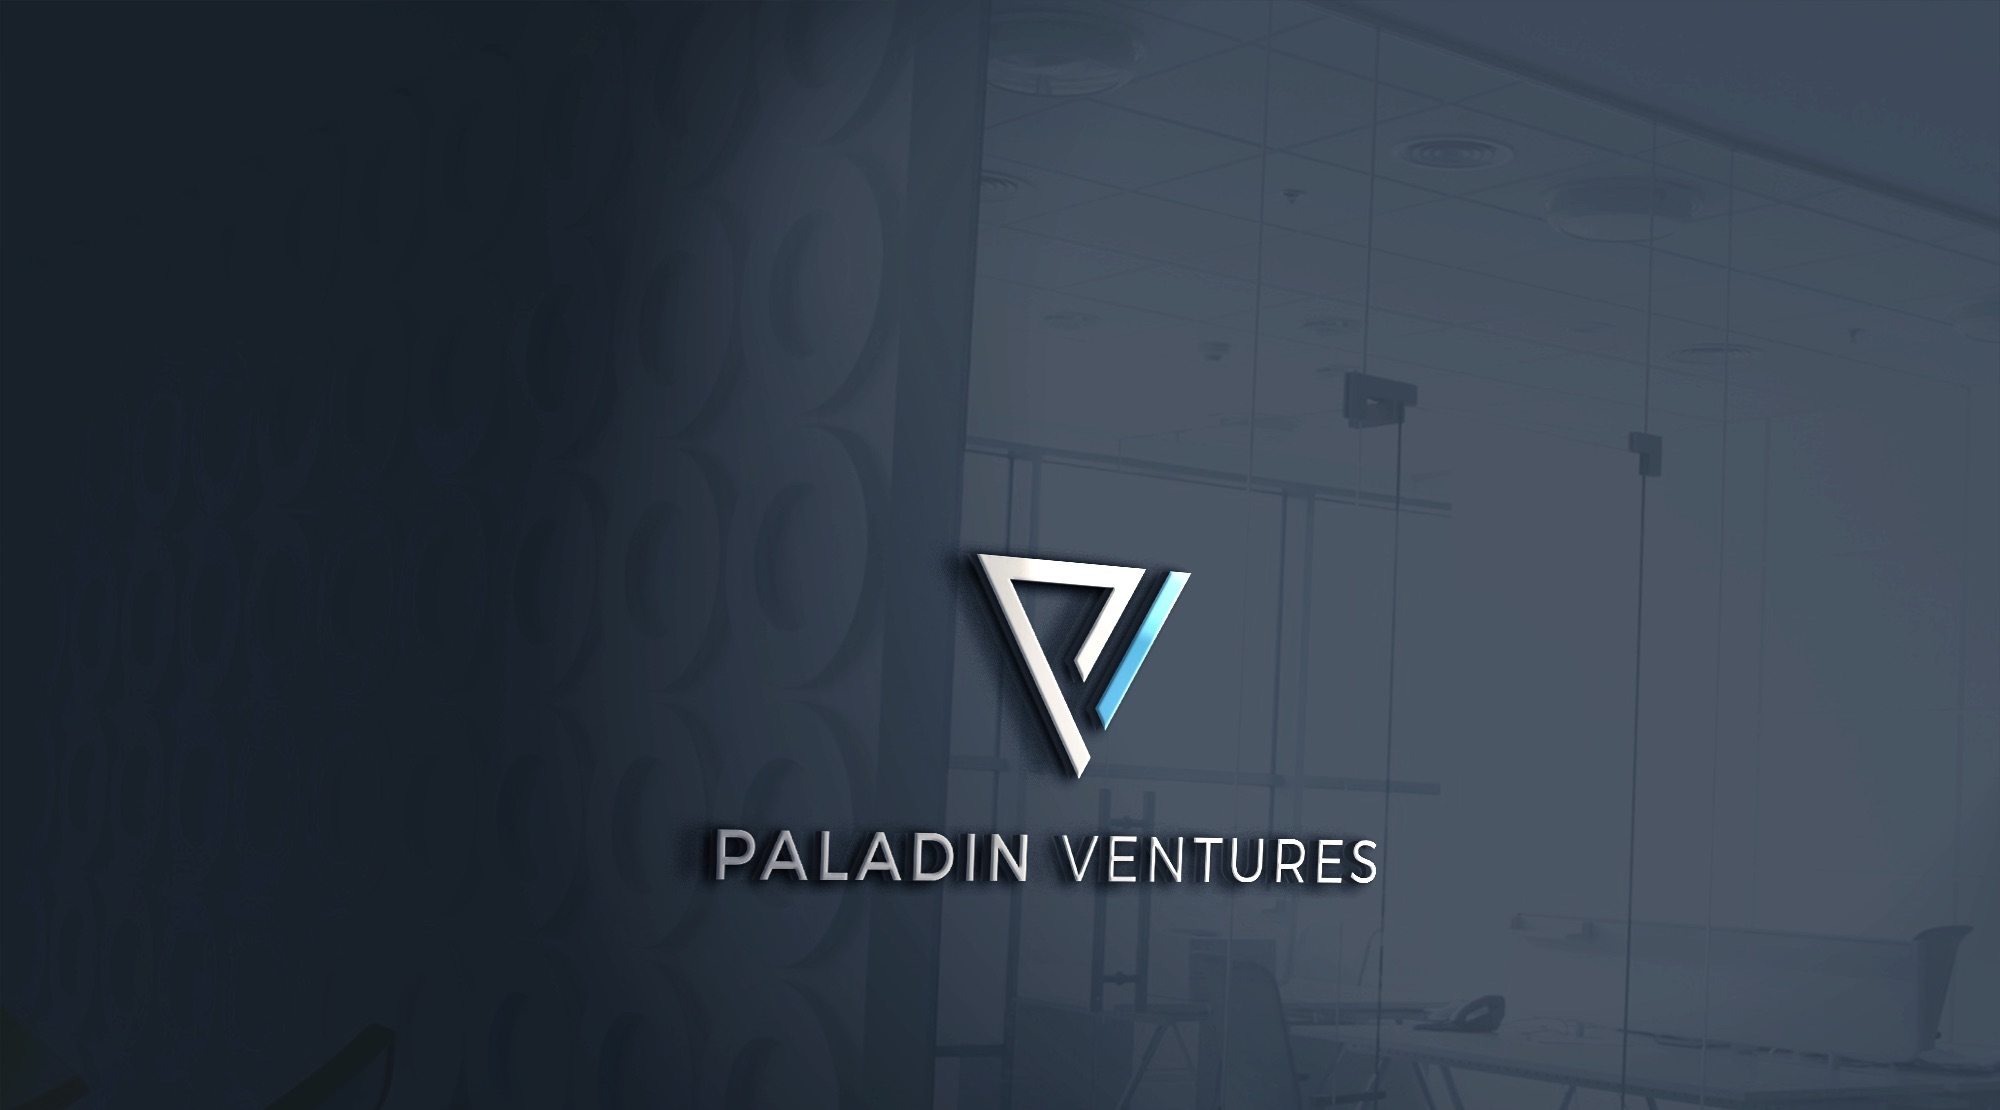
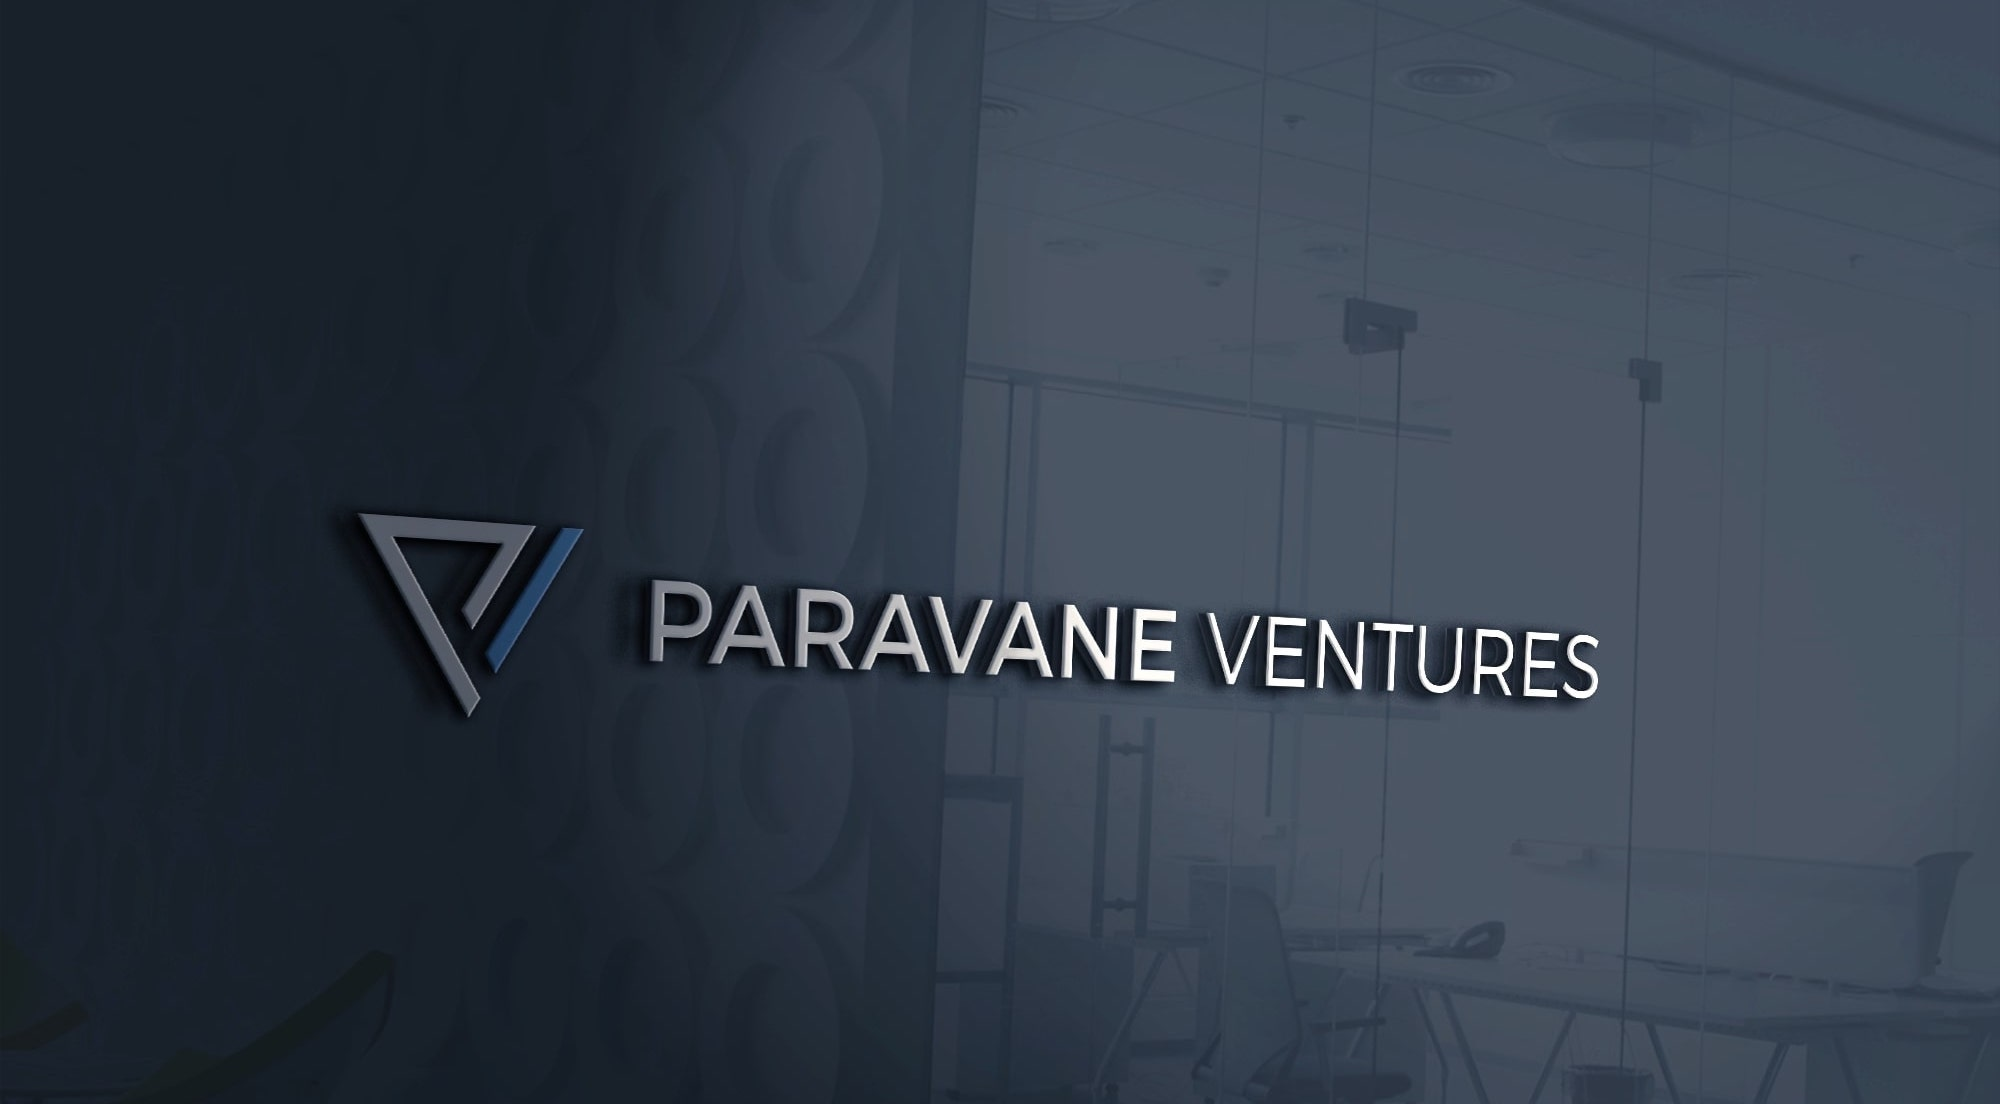
updating site to Paravane Ventures

Changed region(s): [[0.31, 0.4928, 0.806, 0.7083], [0.341, 0.7391, 0.713, 0.8007], [0.155, 0.462, 0.31, 0.6467]]

diff --git a/_includes/internships.html b/_includes/internships.html
@@ -18,7 +18,7 @@
                 </span>
                 <h4 class="service-heading">Who Can Apply</h4>
                 <p class="text-muted large text-justify">
-                  At Paladin, we value drive and initiative over past experience. For that reason, we welcome everyone from freshmen to seniors to apply for our internships. Students of all majors are encouraged to apply.
+                  At Paravane, we value drive and initiative over past experience. For that reason, we welcome everyone from freshmen to seniors to apply for our internships. Students of all majors are encouraged to apply.
                 </p>
                 <p class="text-muted large text-justify">
                   Most of our summer internships are remote. However, at this time, we can only consider students based in the United States because we are unavailable to sponsor or offer work authorization.
@@ -45,10 +45,10 @@
                 </span>
                 <h4 class="service-heading">Experience</h4>
                 <p class="text-muted large text-justify">
-                  If you are looking to maximize earnings this summer, Paladin is most likely not the place for you. Because our portfolio is comprised of early stage startups, we are unable to offer the most competitive compensation packages.
+                  If you are looking to maximize earnings this summer, Paravane is most likely not the place for you. Because our portfolio is comprised of early stage startups, we are unable to offer the most competitive compensation packages.
                 </p>
                 <p class="text-muted large text-justify">
-                  However, if your goal is to maximize your learning by working with industry leaders with previous experience at top companies, Paladin is the place for you.
+                  However, if your goal is to maximize your learning by working with industry leaders with previous experience at top companies, Paravane is the place for you.
                 </p>
             </div>
         </div>

diff --git a/index.html b/index.html
@@ -1,1 +1,38 @@
-<p>Paladin Ventures recently rebranded to Paravane Ventures. Our new website is currently under construction and expected to be complete by mid-August.</p>
+---
+layout: default
+header_image: paladin-office.jpg
+---
+
+{% comment %}
+  {% include services.html %}
+{% endcomment %}
+{% include about.html %}
+{% include portfolio_grid.html %}
+{% comment %}
+
+{% endcomment %}
+{% include team.html %}
+{% include team_companies.html %}
+{% comment %}
+  {% include clients.html %}
+{% endcomment %}
+{% include contact.html %}
+
+
+<!--
+<div class="home">
+
+  <h1>Posts</h1>
+
+  <ul class="posts">
+    {% for post in site.posts %}
+      <li>
+        <span class="post-date">{{ post.date | date: "%b %-d, %Y" }}</span>
+        <a class="post-link" href="{{ post.url | prepend: site.baseurl }}">{{ post.title }}</a>
+      </li>
+    {% endfor %}
+  </ul>
+
+  <p class="rss-subscribe">subscribe <a href="{{ "/feed.xml" | prepend: site.baseurl }}">via RSS</a></p>
+
+</div> -->

diff --git a/index2.html b/index2.html
@@ -1,38 +1,1 @@
----
-layout: default
-header_image: paladin-office.jpg
----
-
-{% comment %}
-  {% include services.html %}
-{% endcomment %}
-{% include about.html %}
-{% include portfolio_grid.html %}
-{% comment %}
-
-{% endcomment %}
-{% include team.html %}
-{% include team_companies.html %}
-{% comment %}
-  {% include clients.html %}
-{% endcomment %}
-{% include contact.html %}
-
-
-<!--
-<div class="home">
-
-  <h1>Posts</h1>
-
-  <ul class="posts">
-    {% for post in site.posts %}
-      <li>
-        <span class="post-date">{{ post.date | date: "%b %-d, %Y" }}</span>
-        <a class="post-link" href="{{ post.url | prepend: site.baseurl }}">{{ post.title }}</a>
-      </li>
-    {% endfor %}
-  </ul>
-
-  <p class="rss-subscribe">subscribe <a href="{{ "/feed.xml" | prepend: site.baseurl }}">via RSS</a></p>
-
-</div> -->
+<p>Paladin Ventures recently rebranded to Paravane Ventures. Our new website is currently under construction and expected to be complete by mid-August.</p>

diff --git a/_includes/about.html b/_includes/about.html
@@ -12,7 +12,7 @@
             <div class="row">
               <div class="col-md-6">
                 <p class="large">
-                  Paladin Ventures is the parent brand of several startup ventures founded by alumni of Cornell and Harvard University. These ventures range from an education startup with a #1 bestselling book to a software development consultancy.
+                  Paravane Ventures is the parent brand of several startup ventures founded by alumni of Cornell and Harvard University. These ventures range from an education startup with a #1 bestselling book to a software development consultancy.
                 </p>
                 <p class="large">
                   Our team comes from technology, consulting, venture capital, and related fields, having worked at industry leaders including Google, Amazon, and McKinsey.

diff --git a/_includes/aboutCaseAnalystProgram.html b/_includes/aboutCaseAnalystProgram.html
@@ -12,7 +12,7 @@
             <div class="row">
               <div class="col-md-6">
                 <p class="large">
-                  Paladin Ventures’ Summer Case Analyst program allows college students to submit strategy proposals for cases involving real challenges our portfolio companies are tackling. The program is highly exclusive with an acceptance rate of about 0.5% 
+                  Paravane Ventures’ Summer Case Analyst program allows college students to submit strategy proposals for cases involving real challenges our portfolio companies are tackling. The program is highly exclusive with an acceptance rate of about 0.5% 
 
                 </p>
                 <p class="large">

diff --git a/_includes/team.html b/_includes/team.html
@@ -31,7 +31,7 @@
             <div class="row">
                 <div class="col-lg-8 col-lg-offset-2">
                     <p class="large">
-                      Paladin Ventures is comprised of industry leaders from a variety of sectors including product management, venture capital, growth marketing, software development, and management consulting.
+                      Paravane Ventures is comprised of industry leaders from a variety of sectors including product management, venture capital, growth marketing, software development, and management consulting.
                     </p>
                 </div>
             </div>

diff --git a/_includes/footer.html b/_includes/footer.html
@@ -4,7 +4,7 @@
                 <div class="col-md-4">
                     <span class="copyright">Copyright &copy; {{ site.title }} {{ 'now' | date: "%Y" }}</span>
                     </br> 
-                    <span class="copyright">We are not affiliated with Paladin Capital Group</span>
+                    <!-- <span class="copyright">We are not affiliated with Paladin Capital Group</span> -->
                 </div>
                 <div class="col-md-4">
                     <ul class="list-inline social-buttons">
